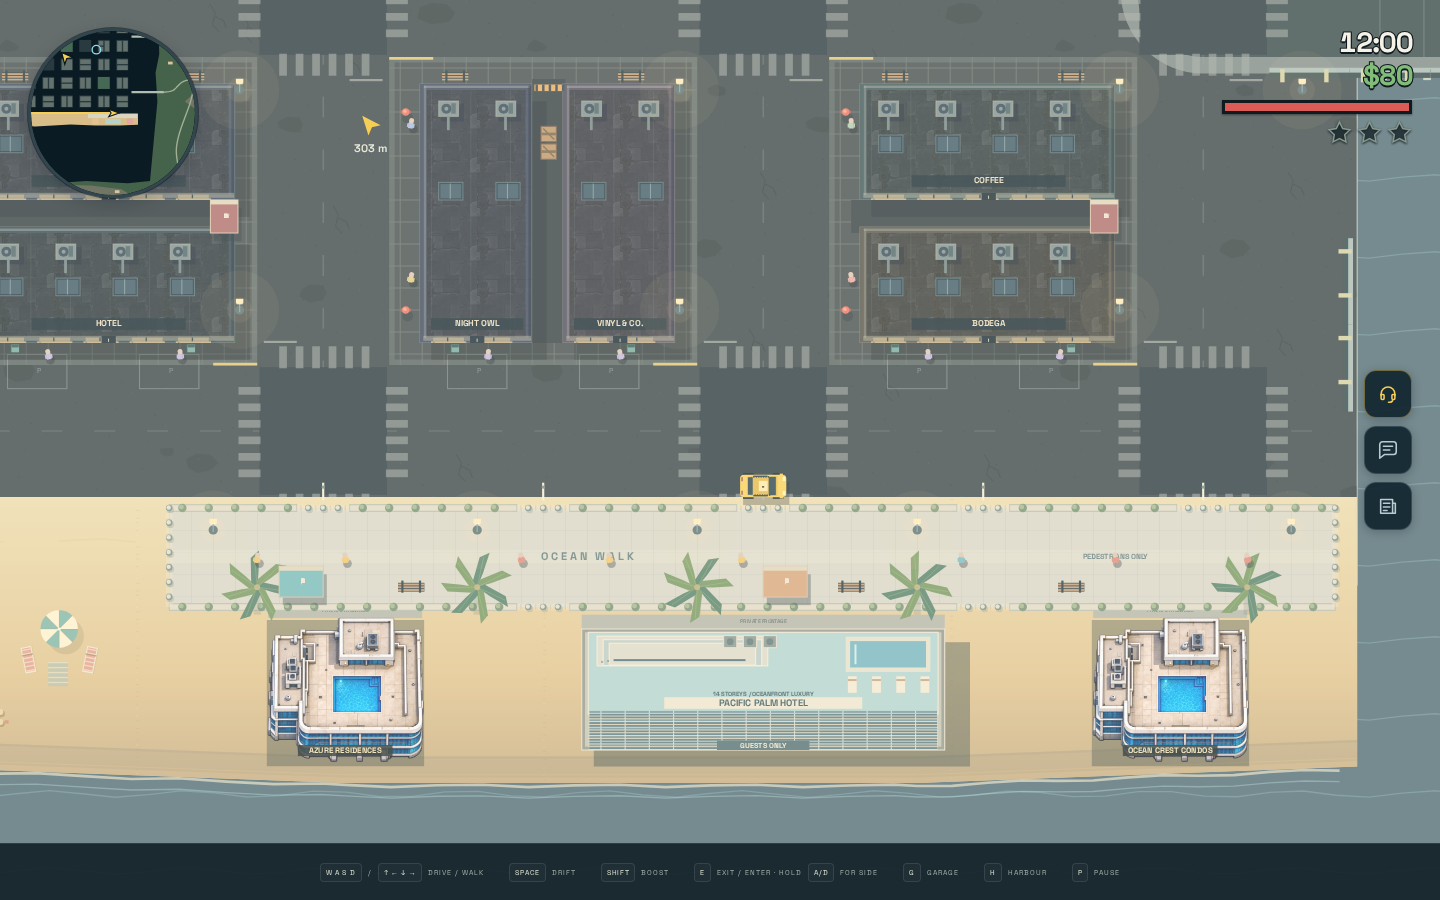
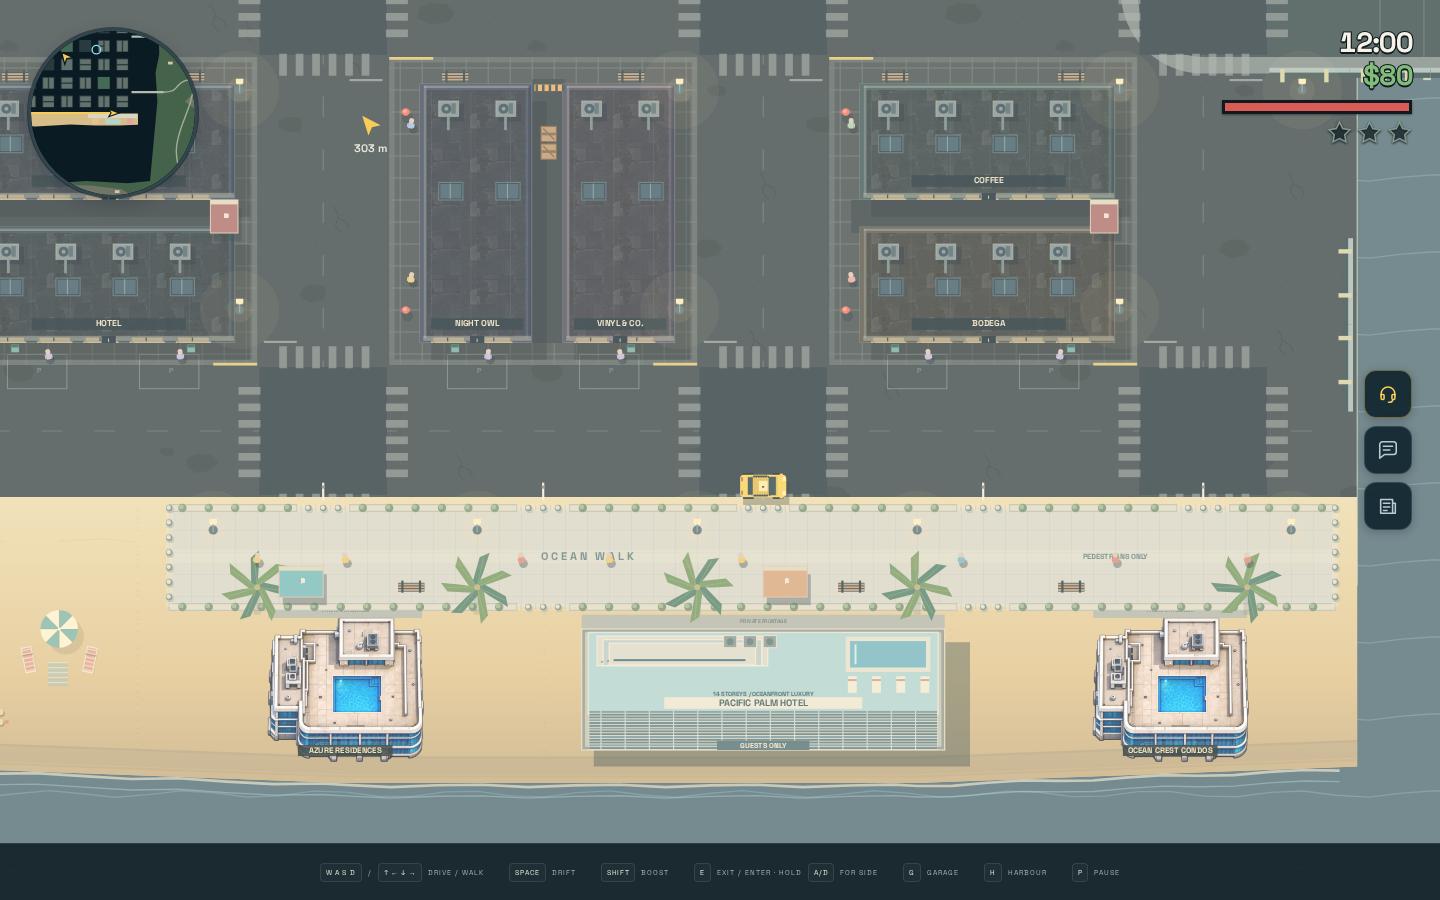
Remove displaced shadows from beachfront condos

diff --git a/src/artwork/catalogue.ts b/src/artwork/catalogue.ts
@@ -11,6 +11,8 @@ export type PropArtwork = Readonly<{
   rotation?: number;
   /** Convex silhouette for sun shadows; optional outline for blocking directed light. */
   silhouette: readonly Vec[];
+  /** Some supplied sprites carry their own depth shading and need no ground shadow. */
+  castsShadow?: boolean;
   occluder?: readonly Vec[];
 }>;
 export type ArtProp = { id?: number; sourceId?: string; kind: string; body: { position: Vec; angle?: number; w: number; h: number }; artwork?: PropArtwork; building?: { artwork?: PropArtwork } };
@@ -23,7 +25,7 @@ export const propArtwork = {
   shopRust: { ...shop, image: 'shop-rust' },
   shopConcrete: { ...shop, image: 'shop-concrete' },
   hospital: { image: 'hospital-roof', layer: 'structure', bounds: { x: -13.3, y: -33.3, width: 26.6, height: 66.6 }, source: { x: 33, y: 16, width: 726, height: 1951 }, silhouette: hospitalOutline, occluder: hospitalOutline },
-  luxuryCondo: { image: 'luxury-condo', layer: 'structure', bounds: { x: -7.15, y: -6.65, width: 14.3, height: 13.3 }, source: { x: 100, y: 60, width: 1055, height: 1090 }, silhouette: condoOutline, occluder: condoOutline },
+  luxuryCondo: { image: 'luxury-condo', layer: 'structure', bounds: { x: -7.15, y: -6.65, width: 14.3, height: 13.3 }, source: { x: 100, y: 60, width: 1055, height: 1090 }, silhouette: condoOutline, castsShadow: false, occluder: condoOutline },
   tree: { image: 'tree-worn', layer: 'structure', bounds: { x: -2.6, y: -2.6, width: 5.2, height: 5.2 }, silhouette: Array.from({ length: 12 }, (_, i) => vec(Math.cos(i * Math.PI / 6) * 2.4, Math.sin(i * Math.PI / 6) * 2.4)) },
 } as const satisfies Record<string, PropArtwork>;
 const shops = [propArtwork.shop, propArtwork.shopRust, propArtwork.shopConcrete];

diff --git a/src/renderer.ts b/src/renderer.ts
@@ -463,8 +463,10 @@ export class Renderer {
     const art = artworkFor(prop);
     if (art && artworkImages.has(art.image)) {
       // Structure artwork shares the old prop pass. Destruction above stays authoritative.
-      c.save(); c.translate(so.x, so.y); c.globalAlpha *= this.shadowAlpha;
-      trace(c, [...art.silhouette], true); c.fillStyle = '#172c2d80'; c.fill(); c.restore();
+      if (art.castsShadow !== false) {
+        c.save(); c.translate(so.x, so.y); c.globalAlpha *= this.shadowAlpha;
+        trace(c, [...art.silhouette], true); c.fillStyle = '#172c2d80'; c.fill(); c.restore();
+      }
       artworkImages.draw(c, art);
       if (prop.kind === 'building') {
         const sign = prop.building?.presentation.sign ?? { width: 8.6, inset: 0.95, size: 0.72, color: '#f0dfae' };

diff --git a/docs/beach.md b/docs/beach.md
@@ -20,7 +20,8 @@ the versioned map, and Pacific Palm Hotel keeps its name and fare stop. An
 optional `style` field on beachfront building placements selects the sprite,
 so older map documents still load and names do not control appearance. Failed
 image decoding falls back to procedural beachfront architecture with resident
-signage. The artwork, shadow and light occluder use the same footprint anchor.
+signage. The condo sprites omit the renderer's displaced ground shadow while
+retaining their footprint-based night-light occluder.
 
 Offline production QA checked desktop and portrait rendering, image failure,
 console errors, overflow and external requests. The full package suite, strict
